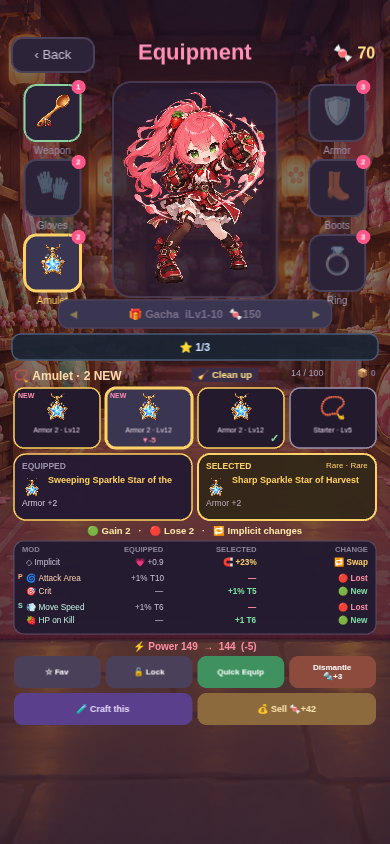
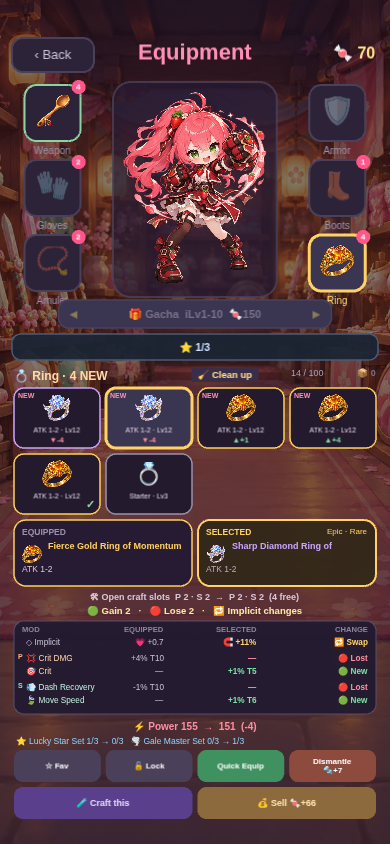
v6.55.46: show open craft slots in equipment compare
Claude-Session: https://claude.ai/code/session_01Je24fSjffqCWWdm2UGg2b2

diff --git a/game.js b/game.js
@@ -50,7 +50,7 @@ function clampPlayerStats(p){ if(p._uqGlass){p.maxhp=Math.max(1,Math.round(p.max
 const TAU = Math.PI * 2;   // global — Game scene (บอส/VFX) อ้างถึง TAU ด้วย เดิมประกาศเฉพาะใน Boot.create → "TAU is not defined"
 
 /* ---- เวอร์ชัน + บันทึกUpdates (build-www ดึงไปทำ version.json ให้หน้า download) ---- */
-const GAME_VERSION = '6.55.45';
+const GAME_VERSION = '6.55.46';
 // Miniboss rewards: choose damage at an HP cost, or recovery.
 const CROSSROADS=[
   {id:'blood',name:'Blood Pact',desc:'+25% damage for 90 seconds',detail:'Lose 30% of current HP',artKey:'prize_jackpot',color:0xff6f9d},
@@ -64,6 +64,7 @@ const RELEASES_URL = 'https://github.com/hardza1230/Survival-like-Mobile-Game/re
 
 function realStageBossMul(i){return i===2||i===3?1.6:i===4?1.25:1;}
 const CHANGELOG = [
+  {v:'6.55.46',date:'2026-10-05',title:'Open craft slots in compare',items:['Equipment compare shows how many Prefix / Suffix slots are still free to craft, equipped → selected']},
   {v:'6.55.45',date:'2026-10-05',title:'Scrollable menu pages',items:['Long menu pages (Affix Forge and others) can now be dragged up and down when they do not fit the screen','A tap still works as before; dragging more than a few pixels scrolls instead']},
   {v:'6.55.44',date:'2026-10-05',title:'Mod comparison table',items:['Equipment compare now lines up mods side by side: same mod on the same row with the change','New / Lost / ▲ / ▼ / Same tags, biggest changes first, implicit swaps flagged','One-line summary: how many mods you gain and lose']},
   {v:'6.55.43',date:'2026-10-05',title:'Taro path talents',items:['Chain, Smite and Tempest each get their own talent nodes and 3 real Capstones','Chain: Thunderhead / Overcharge / Grounded · Smite: Divine Hammer / Heavy Sky / Sanctuary · Tempest: Hurricane / Eye of the Storm / Wind Step']},
@@ -12026,7 +12027,11 @@ class Game extends Phaser.Scene {
         list.push({kind,label:d.emoji+' '+d.label,from:e?d.fmt(ev)+' T'+(e.a.t||3):'—',to:t?d.fmt(tv)+' T'+(t.a.t||3):'—',st,mag:st==='same'?0:st==='new'||st==='lost'?2:Math.abs(tv-ev)/ref,dtxt:st==='up'||st==='down'?(tv>ev?'+':'−')+d.fmt(Math.abs(tv-ev)).replace(/^[+−-]/,''):''});}
       list.sort((a,b)=>b.mag-a.mag); rows.push(...list); }
     return rows; }
-  drawModCompare(eqIt,selIt,isEq,y,w){ if(isEq||!selIt)return y; const rows=this.modCompareRows(eqIt,selIt); if(!rows.length)return y;
+  drawModCompare(eqIt,selIt,isEq,y,w){ if(!selIt)return y;
+    { const K=AFFIX_KIND_MAX,cnt=it=>{let p=0,q=0;for(const a of ((it&&it.affixes)||[])){const d=affixDef(a.id);if(!d)continue;if((d.kind||'suffix')==='prefix')p++;else q++;}return {p:K-p,s:K-q};},fs=cnt(selIt),fe=eqIt&&!isEq?cnt(eqIt):null,
+        part=(f)=>'P '+f.p+' · S '+f.s,tot=fs.p+fs.s,txt='🛠 Open craft slots  '+(fe?part(fe)+'  →  ':'')+part(fs)+(tot?'  ('+tot+' free)':'  (full)'),
+        col=fe?((tot>fe.p+fe.s)?'#7de0a1':(tot<fe.p+fe.s)?'#ff8da2':'#d8c7da'):'#d8c7da',t=this.add.text(w/2,y,txt,{fontFamily:'sans-serif',fontStyle:'bold',fontSize:'9px',color:col}).setOrigin(.5,0); this.menu.add(t); y+=14; }
+    if(isEq)return y; const rows=this.modCompareRows(eqIt,selIt); if(!rows.length)return y;
     const gain=rows.filter(r=>r.st==='new'||r.st==='up').length,lose=rows.filter(r=>r.st==='lost'||r.st==='down').length,sw=rows.some(r=>r.kind==='implicit'&&r.st==='swap');
     const sum=this.add.text(w/2,y,'🟢 Gain '+gain+'   ·   🔴 Lose '+lose+(sw?'   ·   🔁 Implicit changes':''),{fontFamily:'sans-serif',fontStyle:'bold',fontSize:'9.5px',color:'#ffe7a8'}).setOrigin(.5,0);this.menu.add(sum);y+=15;
     const rh=13,top=y,h=16+rows.length*rh+(rows.some(r=>r.kind==='prefix')?3:0)+(rows.some(r=>r.kind==='suffix')?3:0)+6,g=this.add.graphics();g.fillStyle(0x221a30,0.96);g.fillRoundedRect(14,top,w-28,h,10);g.lineStyle(1,0x5a4f6e,0.9);g.strokeRoundedRect(14,top,w-28,h,10);this.menu.add(g);

diff --git a/CLAUDE.md b/CLAUDE.md
@@ -247,7 +247,8 @@ Dedicated deterministic forge WAVs for manual/auto roulette, visual tick cadence
 - **v6.55.40–43 (Talent เฉพาะสาย commit 2–5):** Momo/Mint/Cocoa/Taro ครบ 3 สาย node + Capstone จริง · Momo ใช้ `_K` (ค่าใน `p._pt` + hooks ใน sprinkle/pathBulletDmg/ptOnBounce/ptSkinBurst/releaseSnipe/doDash) · ตัวอื่นใช้ `_P(fx)` → `ptMergeFx` รวมเข้า b._pm ใน syncBasicAttack · ลดดาเมจรับใน `ptTakenMul` (still/ghillie/stillWall/moveGuard/farmor/chin/dashGuard) · Mint `ptOnFreeze` · ⚠ ต้องจูน: Titan ×2.53, Smite ×2.14, Tempest cd 0.36 · **เจ้าของสั่งพัก commit 6–8 (Sesame/Yuzu/badge+tuning) ไว้ก่อน** (Sesame/Yuzu ยังใช้ node กลาง + Capstone Coming soon)
 - **v6.55.44 (เจ้าของ: เทียบ mod ที่ใส่กับที่เลือก · เลือกข้อ 1+3):** หน้า Equipment เลิกโชว์ mod 2 คอลัมน์ในการ์ด → `drawModCompare` ตารางเต็มกว้างใต้การ์ด: แถว Implicit + P/S ต่อ mod id (`modCompareRows`) คอลัมน์ EQUIPPED/SELECTED/CHANGE · สถานะ New/Lost/▲/▼/Same/Swap เรียงต่างมากก่อน Same จาง · บรรทัดสรุป 🟢 Gain/🔴 Lose/🔁 Implicit · ซ่อนเมื่อดูชิ้นที่ใส่อยู่ · ภาพ docs/previews/mod_compare_v6_55_44.png · ไอเดียค้าง: สี tier, ช่องว่างคราฟต่อ, แตะแถวดูช่วงค่า
 - **v6.55.45 (บั๊กเจ้าของ: Affix Forge ล้นจอ เลื่อนไม่ได้):** เมนูเลื่อนได้ทุกหน้า (ยกเว้น hub/atlas) · `setupMenuScroll(s)` ท้าย buildMenuScreen วัด bounds ลูกใน this.menu → `_mScrollMax` + พื้นสีเติมใต้จอ · ถ้าเลื่อนได้ pointerdown เก็บ `_mDrag` → ลาก >8px = เลื่อน (`setMenuScroll` ตั้ง menu.y) · ปล่อยไม่ลาก = handleTap (บวก offset scroll ให้ zone) · wheel ใช้ได้ · scroll คงตำแหน่งเมื่อ rebuild หน้าเดิม · popup ที่วาดใน menu (roulette/auto-roll/gacha/bazaar slot) รีเซ็ต scroll 0 ก่อน
-- **เวอร์ชันปัจจุบัน v6.55.45** (`GAME_VERSION`) · สาขา `claude/gallant-shannon-vx0est` · Monster animation commit 1–6 เสร็จ (ดูหัวไฟล์)
+- **v6.55.46 (เจ้าของ: ช่องว่างสำหรับคราฟต่อ):** drawModCompare บรรทัด '🛠 Open craft slots P x · S y → P · S (N free)' (AFFIX_KIND_MAX ลบจำนวน mod) เขียว=ชิ้นที่เลือกว่างมากกว่า · ดูชิ้นที่ใส่อยู่ก็โชว์ (ไม่มีลูกศร)
+- **เวอร์ชันปัจจุบัน v6.55.46** (`GAME_VERSION`) · สาขา `claude/gallant-shannon-vx0est` · Monster animation commit 1–6 เสร็จ (ดูหัวไฟล์)
 - **งานค้าง:** (1) Monster animation commit 7 Chapter 2 ด่าน 1–2 รวม Sporeling → 8 Nectar รวม Tiny Grub → 9 Season/Root → 10 Elite/summon รวม Mini Jelly + Chapter 3 generic Elite + รีวิวภาพ/ประสิทธิภาพบนมือถือ (`docs/MONSTER_ANIMATION_PLAN.md`) (2) รีวิวบนมือถือจริงที่ค้าง: Mint Piercer balance เท่านั้น (เจ้าของทดสอบผ่านแล้ว 4 ต.ค. 2026: monster animation 2–6, VFX batch 1–5, Boss Loot Keep/Double/Reroll, เสียงทั้งหมด) (3) Play Store (พักไว้): ลบบัญชีในแอป, store listing, keystore, closed test
 - **v6.54.9 (เจ้าของ: อยากได้การ์ดสุ่มแบบ Jackpot แทน):** onBossDown → `openBossLootCards` (การ์ดคว่ำ 3 ใบจาก 7 ชนิด: Sugar/Currency/พลั่ว/ด้าย/🔩/หินแก่น/Gear · JACKPOT 25%+10%/ระดับยาก) แล้วค่อย revealStageReward · openMysteryCards รับ opt {prizes,title,hint} + fallback emoji ถ้าไม่มี artKey · ยกเลิก Sugar Bounty v6.54.8 (บอสยังไม่ดรอป orb/หัวใจ)
 - **v6.54.8 (เจ้าของ: ของดรอปบอสไร้ประโยชน์เพราะจบด่าน):** killEnemy บอสใหญ่ไม่ dropOrb/dropHeal → Sugar Bounty (60+30·stage)×diff reward เข้า sugarStage ตรง + แบนเนอร์ · มินิ/elite ดรอปเหมือนเดิม
